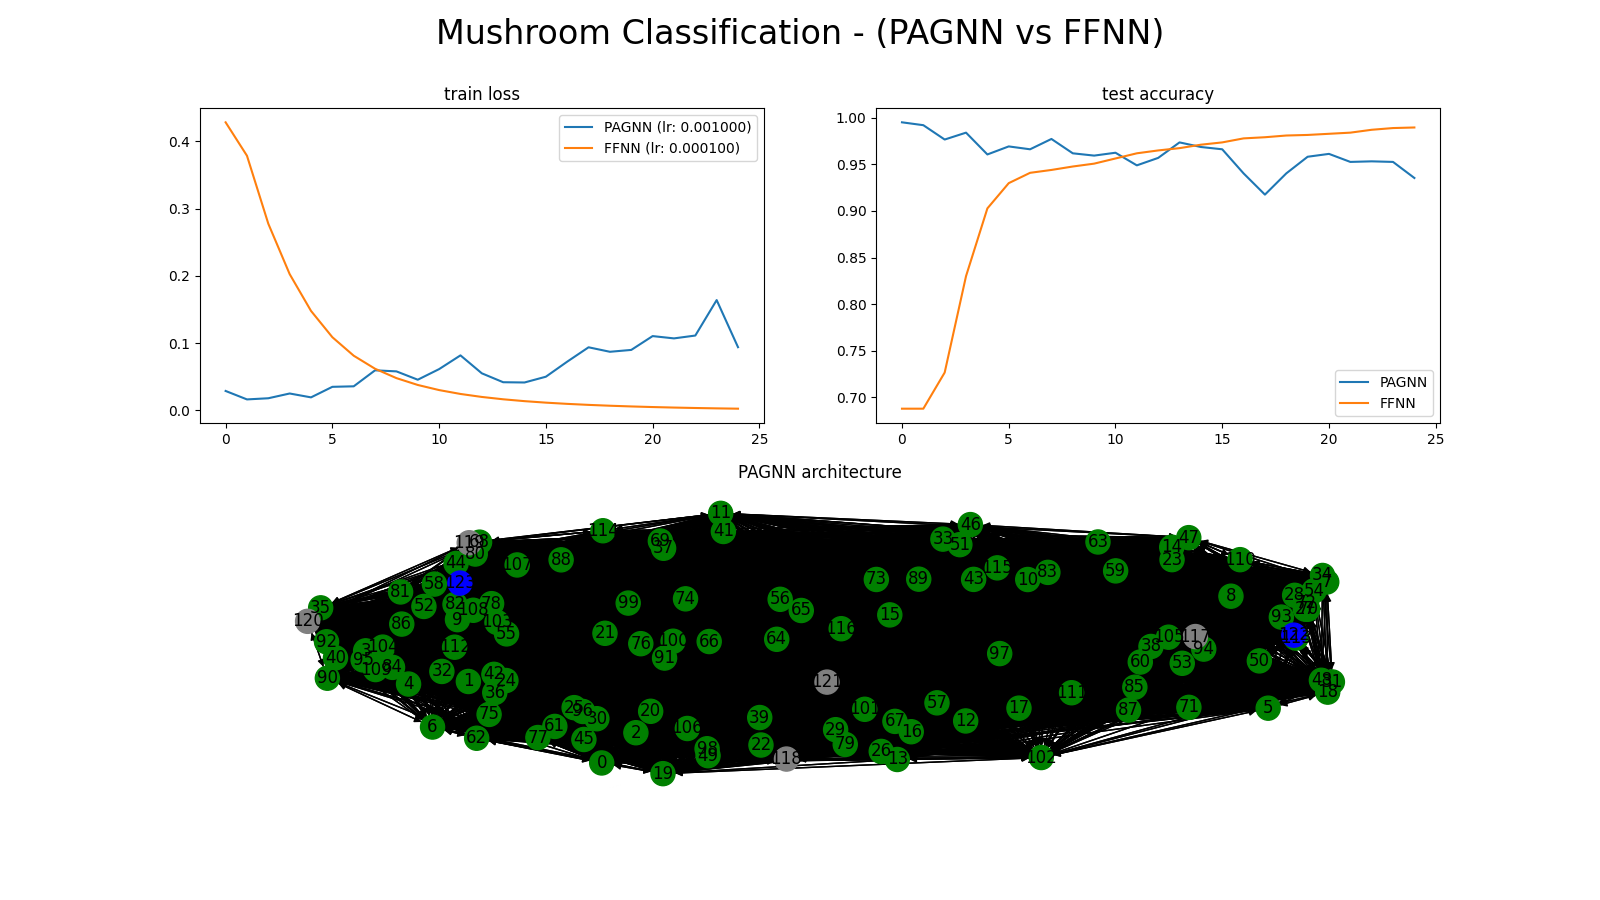
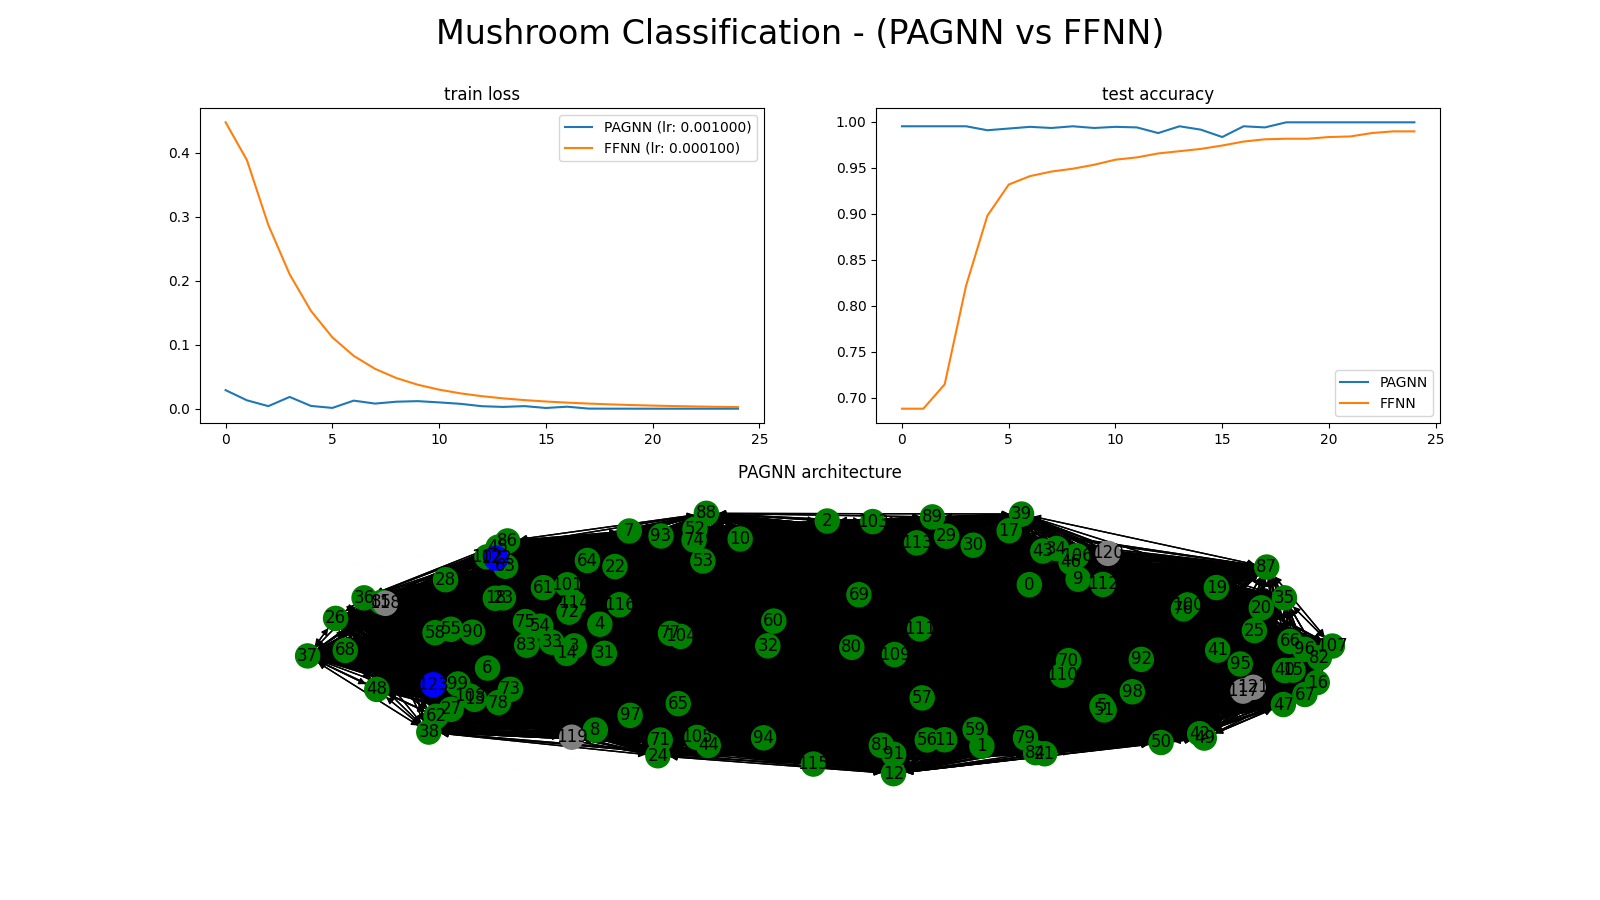
use .to(device) & use best one (gpu/cpu)

diff --git a/comparisons/nlp/yelp/yelp_dataset.py b/comparisons/nlp/yelp/yelp_dataset.py
@@ -60,7 +60,7 @@ def split_train_test(top_data_df_small, test_size=0.3, shuffle_state=True):
     return X_train, X_test, Y_train, Y_test
 
 
-def make_w2v_vector(w2v, sentence, cnn=False, max_sen_len=None, padding_idx=None):
+def make_w2v_vector(w2v, sentence, device, cnn=False, max_sen_len=None, padding_idx=None):
     if cnn:
         X = [padding_idx for i in range(max_sen_len)]
     else:
@@ -81,7 +81,7 @@ def make_w2v_vector(w2v, sentence, cnn=False, max_sen_len=None, padding_idx=None
             else:
                 X.append(emb)
 
-    out = torch.tensor(X, dtype=torch.long)
+    out = torch.tensor(X, dtype=torch.long, device=device)
     if cnn:
         out = out.view(1, -1)
 
@@ -149,14 +149,21 @@ if __name__ == '__main__':
     # get train / test sets
     X_train, X_test, Y_train, Y_test = split_train_test(df)
 
+    device = torch.device('cuda')
+
     D = w2v.vector_size
-    C = 3 # 3 classes = -1, 0, 1 (sentiments)
+    C = 3 # 3 classes = 0, 1, 2 (sentiments)
     pagnn = PAGNN(D + C + 5, D, C, graph_generator=nx.generators.classic.complete_graph)
+    pagnn.to(device)
     struc = pagnn.structure_adj_matrix
     print(pagnn)
 
     cnn = CnnTextClassifier(vocab_size=len(w2v.wv.vocab), num_classes=C, num_filters=10, embedding_size=D)
+    cnn.to(device)
     print(cnn)
+
+    print('pagnn num params:', sum(p.numel() for p in pagnn.parameters()))
+    print('cnn num params:', sum(p.numel() for p in cnn.parameters()))
 
     max_sen_len = df['stemmed_tokens'].map(len).max()
 
@@ -164,6 +171,7 @@ if __name__ == '__main__':
     lr = 0.001
     optimizer = torch.optim.Adam(pagnn.parameters(), lr=lr)
     embedding = nn.Embedding.from_pretrained(torch.FloatTensor(w2v.wv.vectors), padding_idx=w2v.wv.vocab['pad'].index)
+    embedding.to(device)
 
     cnn_lr = 0.001
     cnn_optimizer = torch.optim.Adam(cnn.parameters(), lr=cnn_lr)
@@ -173,95 +181,99 @@ if __name__ == '__main__':
     cnn_history = {'train_loss': [], 'test_accuracy': []}
 
     epochs = 30
-    for epoch in range(epochs):
-        print('epoch', epoch)
-        # TRAIN
-        pagnn.train()
-        cnn.train()
+    try:
+        for epoch in range(epochs):
+            print('epoch', epoch)
+            # TRAIN
+            pagnn.train()
+            cnn.train()
 
-        total_loss = 0
-        cnn_total_loss = 0
-        iterator = X_train.iterrows()
-        if use_tqdm:
-            iterator = tqdm(iterator, total=len(X_train))
-        with torch.enable_grad():
-            for index, row in iterator:
-                optimizer.zero_grad()
-                cnn_optimizer.zero_grad()
+            total_loss = 0
+            cnn_total_loss = 0
+            iterator = X_train.iterrows()
+            if use_tqdm:
+                iterator = tqdm(iterator, total=len(X_train))
+            with torch.enable_grad():
+                for index, row in iterator:
+                    optimizer.zero_grad()
+                    cnn_optimizer.zero_grad()
 
-                # convert review into w2v embedding
-                unvec_x = row['stemmed_tokens']
-                x = make_w2v_vector(w2v, unvec_x)
-                x_cnn = make_w2v_vector(cnn.w2vmodel, unvec_x, cnn=True, max_sen_len=max_sen_len, padding_idx=padding_idx)
-                emb = embedding(x)
-                t = Y_train[index].unsqueeze(0)
+                    # convert review into w2v embedding
+                    unvec_x = row['stemmed_tokens']
+                    x = make_w2v_vector(w2v, unvec_x, device)
+                    x_cnn = make_w2v_vector(cnn.w2vmodel, unvec_x, device, cnn=True, max_sen_len=max_sen_len, padding_idx=padding_idx)
+                    emb = embedding(x)
 
-                for vec in emb:
-                    vec = vec.unsqueeze(0)
-                    struc.load_input_neurons(vec)
-                    struc.step()
-                y = struc.extract_output_neurons()
+                    t = Y_train[index].unsqueeze(0).to(device)
 
-                cnn_y = cnn(x_cnn)
+                    for vec in emb:
+                        vec = vec.unsqueeze(0)
+                        struc.load_input_neurons(vec)
+                        struc.step()
+                    y = struc.extract_output_neurons()
 
-                loss = F.cross_entropy(y, t)
-                total_loss += loss.item()
+                    cnn_y = cnn(x_cnn)
 
-                cnn_loss = F.cross_entropy(cnn_y, t)
-                cnn_total_loss += cnn_loss.item()
+                    loss = F.cross_entropy(y, t)
+                    total_loss += loss.item()
 
-                loss.backward()
-                optimizer.step()
+                    cnn_loss = F.cross_entropy(cnn_y, t)
+                    cnn_total_loss += cnn_loss.item()
 
-                cnn_loss.backward()
-                cnn_optimizer.step()
+                    loss.backward()
+                    optimizer.step()
+
+                    cnn_loss.backward()
+                    cnn_optimizer.step()
 
 
-        avg_loss = total_loss / len(X_train)
-        cnn_avg_loss = cnn_total_loss / len(X_train)
-        print('[PAGNN] train loss: %f' % (avg_loss))
-        print('[CNN] train loss: %f' % (cnn_avg_loss))
+            avg_loss = total_loss / len(X_train)
+            cnn_avg_loss = cnn_total_loss / len(X_train)
+            print('[PAGNN] train loss: %f' % (avg_loss))
+            print('[CNN] train loss: %f' % (cnn_avg_loss))
 
-        pagnn_history['train_loss'].append(avg_loss)
-        cnn_history['train_loss'].append(cnn_avg_loss)
+            pagnn_history['train_loss'].append(avg_loss)
+            cnn_history['train_loss'].append(cnn_avg_loss)
 
-        # EVAL
-        pagnn.eval()
-        cnn.eval()
-        iterator = X_test.iterrows()
-        if use_tqdm:
-            iterator = tqdm(iterator, total=len(X_test))
-        total_correct = 0
-        cnn_total_correct = 0
-        with torch.no_grad():
-            for index, row in iterator:
-                # convert review into w2v embedding
-                unvec_x = row['stemmed_tokens']
-                x = make_w2v_vector(w2v, unvec_x)
-                x_cnn = make_w2v_vector(cnn.w2vmodel, unvec_x, cnn=True, max_sen_len=max_sen_len, padding_idx=padding_idx)
-                emb = embedding(x)
-                t = Y_train[index].unsqueeze(0)
+            # EVAL
+            pagnn.eval()
+            cnn.eval()
+            iterator = X_test.iterrows()
+            if use_tqdm:
+                iterator = tqdm(iterator, total=len(X_test))
+            total_correct = 0
+            cnn_total_correct = 0
+            with torch.no_grad():
+                for index, row in iterator:
+                    # convert review into w2v embedding
+                    unvec_x = row['stemmed_tokens']
+                    x = make_w2v_vector(w2v, unvec_x, device)
+                    x_cnn = make_w2v_vector(cnn.w2vmodel, unvec_x, device, cnn=True, max_sen_len=max_sen_len, padding_idx=padding_idx)
+                    emb = embedding(x)
+                    t = Y_train[index].unsqueeze(0).to(device)
 
-                for vec in emb:
-                    vec = vec.unsqueeze(0)
-                    struc.load_input_neurons(vec)
-                    struc.step()
-                y = struc.extract_output_neurons()
-                cnn_y = cnn(x_cnn)
+                    for vec in emb:
+                        vec = vec.unsqueeze(0)
+                        struc.load_input_neurons(vec)
+                        struc.step()
+                    y = struc.extract_output_neurons()
+                    cnn_y = cnn(x_cnn)
 
-                _, pred = torch.max(y.data, 1)
-                total_correct += torch.sum(pred == t).item()
-                
-                _, cnn_pred = torch.max(cnn_y.data, 1)
-                cnn_total_correct += torch.sum(cnn_pred == t).item()
+                    _, pred = torch.max(y.data, 1)
+                    total_correct += torch.sum(pred == t).item()
+                    
+                    _, cnn_pred = torch.max(cnn_y.data, 1)
+                    cnn_total_correct += torch.sum(cnn_pred == t).item()
 
-        accuracy = total_correct / len(X_test)
-        cnn_accuracy = cnn_total_correct / len(X_test)
-        print('[PAGNN] test accuracy:', accuracy)
-        print('[CNN] test accuracy:', cnn_accuracy)
+            accuracy = total_correct / len(X_test)
+            cnn_accuracy = cnn_total_correct / len(X_test)
+            print('[PAGNN] test accuracy:', accuracy)
+            print('[CNN] test accuracy:', cnn_accuracy)
 
-        pagnn_history['test_accuracy'].append(accuracy)
-        cnn_history['test_accuracy'].append(cnn_accuracy)
+            pagnn_history['test_accuracy'].append(accuracy)
+            cnn_history['test_accuracy'].append(cnn_accuracy)
+    except KeyboardInterrupt:
+        print('early exit')
 
     fig = plt.figure(figsize=(16, 9))
     fig.suptitle('Yelp Review Sentiment Classification - (PAGNN vs CNN)', fontsize=24)

diff --git a/comparisons/linear_regression.py b/comparisons/linear_regression.py
@@ -20,10 +20,15 @@ if __name__ == '__main__':
         torch.manual_seed(seed)
         np.random.seed(seed)
 
+    device = torch.device('cpu') 
+    # device = torch.device('cuda')
+
     pagnn = PAGNN(5, 1, 1, graph_generator=nx.generators.classic.complete_graph)
+    pagnn.to(device)
     print(pagnn)
 
     linear_model = torch.nn.Linear(1, 1)
+    linear_model.to(device)
     print(linear_model)
 
     # load data into torch tensors
@@ -45,19 +50,19 @@ if __name__ == '__main__':
     baseline_lr = 0.01
     optimizer = torch.optim.Adam(pagnn.parameters(), lr=pagnn_lr)
     baseline_optimizer = torch.optim.Adam(linear_model.parameters(), lr=baseline_lr)
-    num_steps = 5
+    num_steps = 3
 
     pagnn_history = {'train_loss': [], 'test_loss': []}
     baseline_history = {'train_loss': [], 'test_loss': []}
     
-    for epoch in range(15):
+    for epoch in range(10):
         with torch.enable_grad():
             pagnn_total_loss = 0
             baseline_total_loss = 0
 
             for x, t in train_dl:
-                x = x.float().unsqueeze(-1)
-                t = t.float().unsqueeze(-1)
+                x = x.float().unsqueeze(-1).to(device)
+                t = t.float().unsqueeze(-1).to(device)
 
                 optimizer.zero_grad()
                 baseline_optimizer.zero_grad()
@@ -88,8 +93,8 @@ if __name__ == '__main__':
             total_loss = 0
             baseline_total_loss = 0
             for x, t in test_dl:
-                x = x.float().unsqueeze(-1)
-                t = t.float().unsqueeze(-1)
+                x = x.float().unsqueeze(-1).to(device)
+                t = t.float().unsqueeze(-1).to(device)
 
                 y = pagnn(x, num_steps=num_steps)
                 baseline_y = linear_model(x)

diff --git a/comparisons/mv_linear_regression.py b/comparisons/mv_linear_regression.py
@@ -76,6 +76,10 @@ if __name__ == '__main__':
 
     pagnn_history = {'train_loss': [], 'test_loss': []}
     baseline_history = {'train_loss': [], 'test_loss': []}
+
+    device = torch.device('cpu') # CPU for this test is faster (not very many neurons)
+    pagnn.to(device)
+    linear_model.to(device)
     
     for epoch in range(20):
         with torch.enable_grad():
@@ -83,8 +87,8 @@ if __name__ == '__main__':
             baseline_total_loss = 0
 
             for x, t in train_dl:
-                x = x.float()
-                t = t.float().unsqueeze(-1)
+                x = x.float().to(device)
+                t = t.float().unsqueeze(-1).to(device)
 
                 optimizer.zero_grad()
                 baseline_optimizer.zero_grad()
@@ -115,8 +119,8 @@ if __name__ == '__main__':
             total_loss = 0
             baseline_total_loss = 0
             for x, t in test_dl:
-                x = x.float()
-                t = t.float().unsqueeze(-1)
+                x = x.float().to(device)
+                t = t.float().unsqueeze(-1).to(device)
 
                 y = pagnn(x, num_steps=num_steps)
                 baseline_y = linear_model(x)

diff --git a/comparisons/non_linear_classification.py b/comparisons/non_linear_classification.py
@@ -78,6 +78,10 @@ if __name__ == '__main__':
 
     pagnn_history = {'train_loss': [], 'test_accuracy': []}
     baseline_history = {'train_loss': [], 'test_accuracy': []}
+
+    device = torch.device('cpu') # CPU for this test is faster (not very many neurons)
+    pagnn.to(device)
+    linear_model.to(device)
     
     try:
         for epoch in range(1000):
@@ -92,7 +96,8 @@ if __name__ == '__main__':
                     optimizer.zero_grad()
                     baseline_optimizer.zero_grad()
 
-                    x = x.float()
+                    x = x.float().to(device)
+                    t = t.to(device)
 
                     y = pagnn(x, num_steps=num_steps)
                     baseline_y = linear_model(x)
@@ -122,7 +127,8 @@ if __name__ == '__main__':
                 total_correct = 0.0
                 baseline_total_correct = 0.0
                 for x, t in test_dl:
-                    x = x.float()
+                    x = x.float().to(device)
+                    t = t.to(device)
 
                     y = pagnn(x, num_steps=num_steps)
                     baseline_y = linear_model(x)

diff --git a/comparisons/mushroom_classification.py b/comparisons/mushroom_classification.py
@@ -73,9 +73,13 @@ if __name__ == '__main__':
     print('pagnn num params:', sum(p.numel() for p in pagnn_model.parameters()))
     print('ffnn num params:', sum(p.numel() for p in ffnn_model.parameters()))
 
+    device = torch.device('cuda') # CUDA for this test is faster (quite a bit more neurons)
+    pagnn_model.to(device)
+    ffnn_model.to(device)
+
     criterion = F.cross_entropy
     epochs = 25
-    compare((ffnn, pagnn), train_dl, test_dl, epochs, criterion, test_accuracy=True)
+    compare((ffnn, pagnn), train_dl, test_dl, epochs, criterion, test_accuracy=True, device=device)
     
     fig = plt.figure(figsize=(16, 9))
     fig.suptitle('Mushroom Classification - (PAGNN vs FFNN)', fontsize=24)

diff --git a/comparisons/sequences/seq_mv_linear_regression.py b/comparisons/sequences/seq_mv_linear_regression.py
@@ -76,6 +76,8 @@ if __name__ == '__main__':
 
     pagnn_history = {'train_loss': [], 'test_loss': []}
     baseline_history = {'train_loss': [], 'test_loss': []}
+
+    # NOTE: using CPU (faster for this specific test, not very many neurons)
     
     for epoch in range(20):
         with torch.enable_grad():
